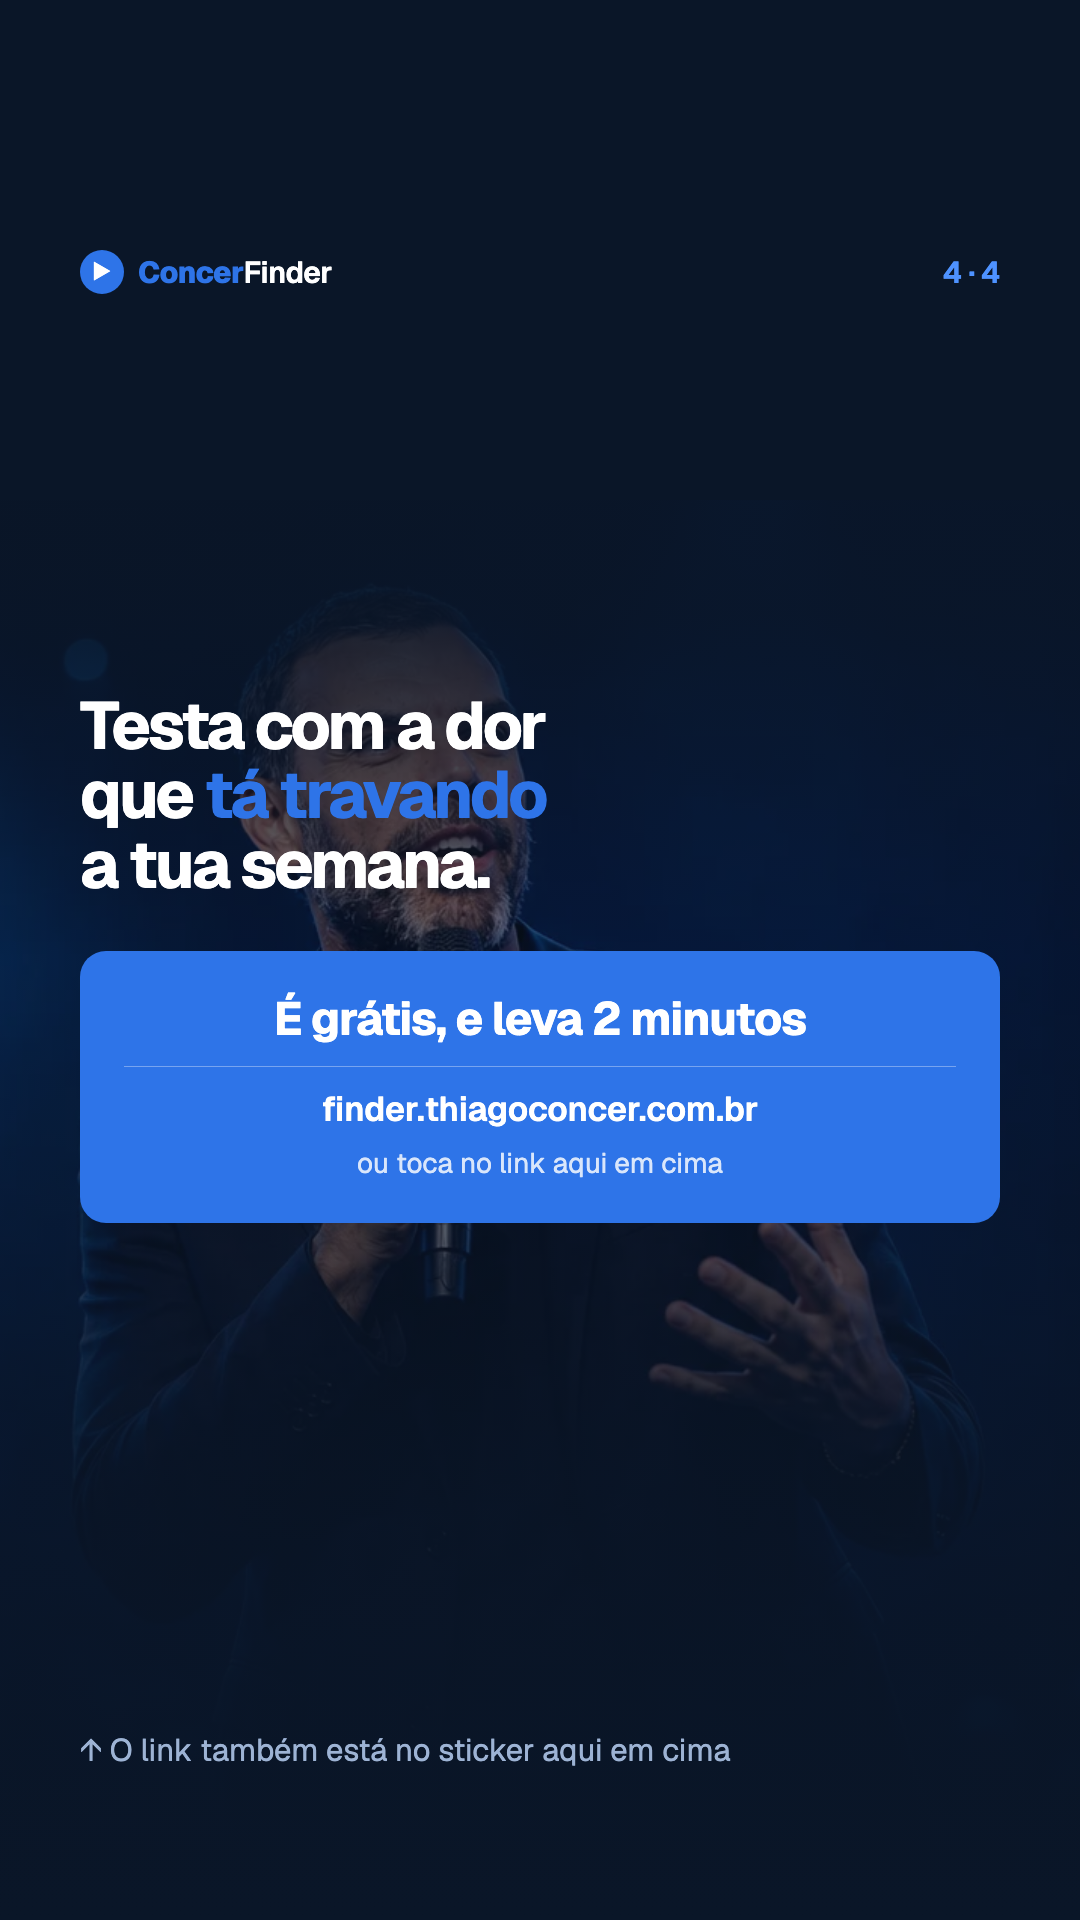
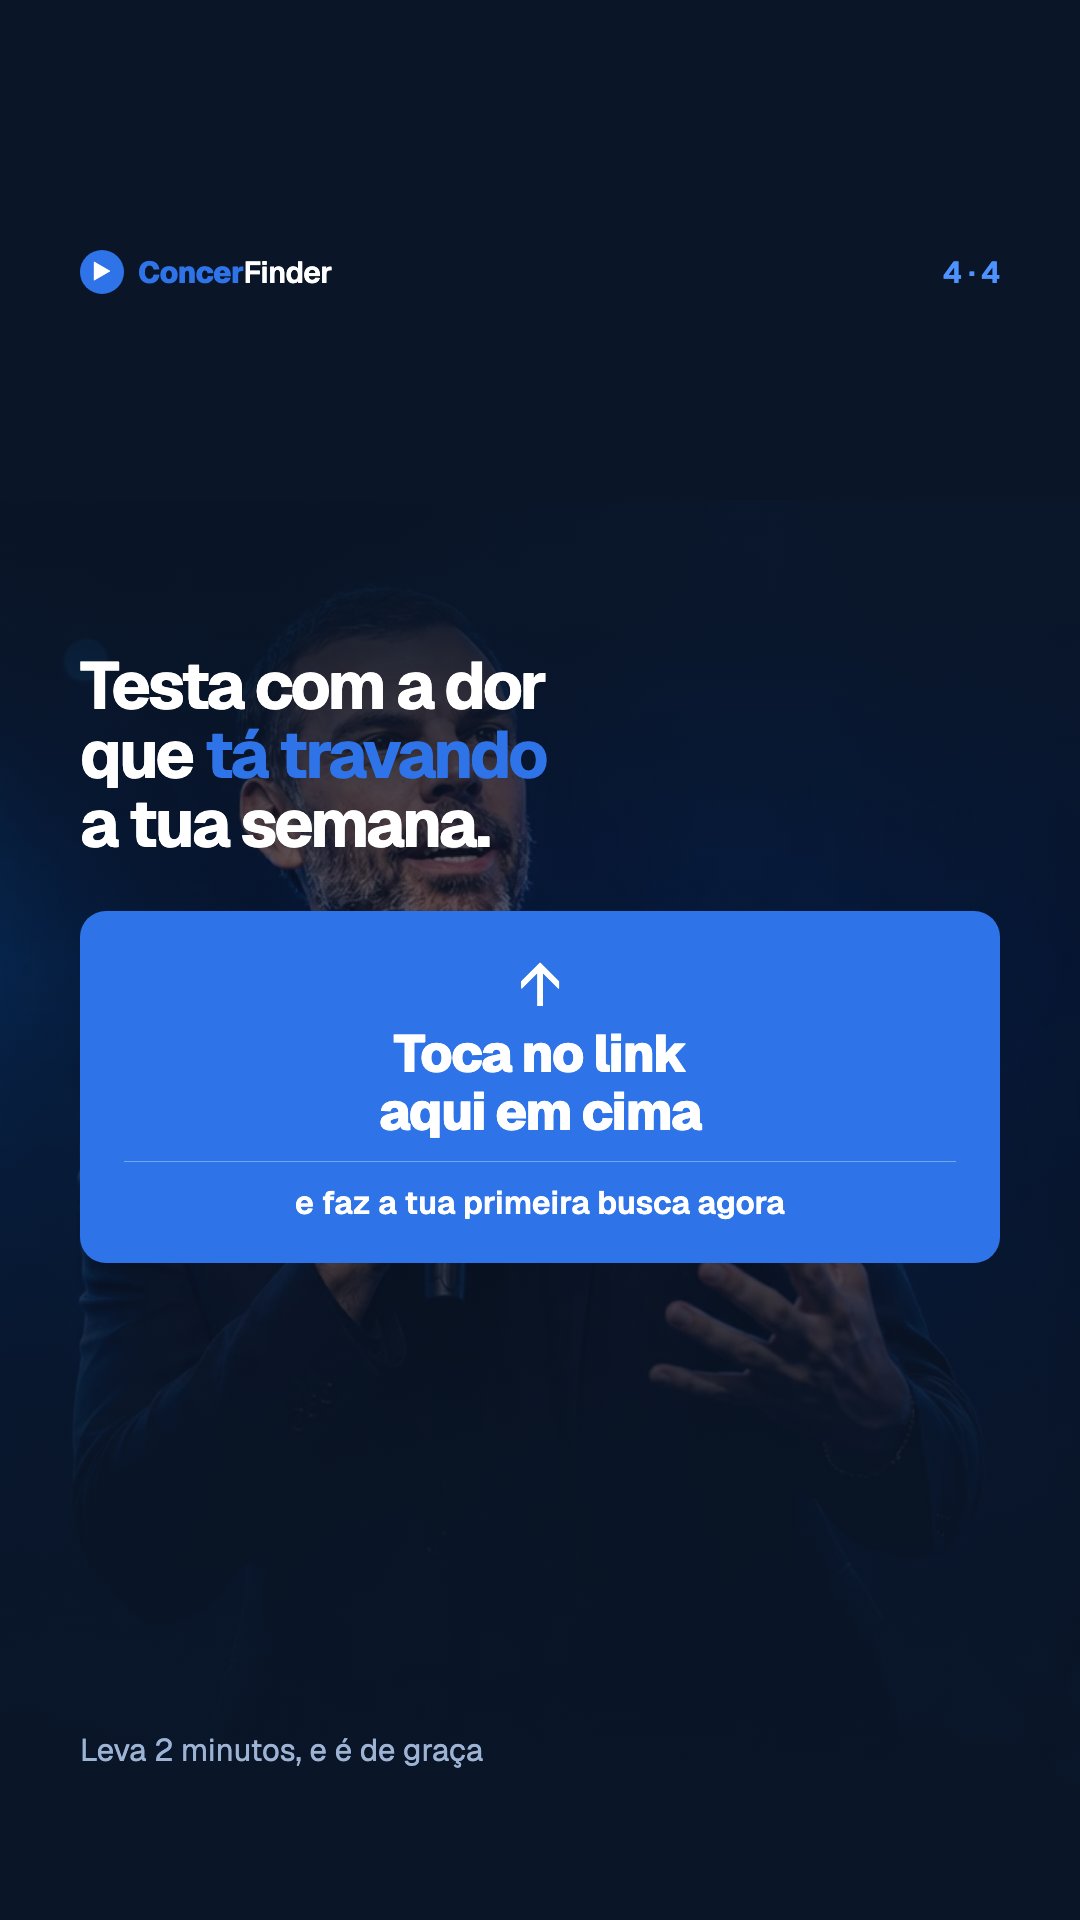
Fecho do carrossel C aponta pro sticker, sem URL escrita
O link vai pelo sticker nativo do Instagram, então URL dentro da arte não é
clicável e ainda concorre com ele. O bloco azul do frame 4 vira o destaque que
manda tocar no link, com a seta apontando pra cima.

Changed region(s): [[0.0611, 0.3438, 0.9472, 0.6562], [0.0611, 0.9062, 0.6722, 0.9375]]

diff --git a/docs/divulgacao/stories/carrossel-c-4.html b/docs/divulgacao/stories/carrossel-c-4.html
@@ -42,11 +42,11 @@ h1 em{font-style:normal;color:#2E74E8}
 .numero b{font-size:104px;font-weight:800;letter-spacing:-5px;line-height:1}
 .numero span{font-size:33px;color:#C6D6F0;line-height:1.25;max-width:430px}
 
-.fecho{margin-top:52px;background:#2E74E8;border-radius:26px;padding:42px 44px;text-align:center}
-.fecho .grande{font-size:46px;font-weight:700;letter-spacing:-1px;line-height:1.15}
-.fecho .url{margin-top:20px;font-size:34px;font-weight:600;color:#fff;
-  border-top:1px solid rgba(255,255,255,.35);padding-top:20px;word-break:break-all}
-.fecho .toque{margin-top:14px;font-size:28px;color:rgba(255,255,255,.82)}
+.fecho{margin-top:52px;background:#2E74E8;border-radius:26px;padding:44px 44px 40px;text-align:center}
+.fecho .seta{font-size:60px;line-height:1;margin-bottom:10px}
+.fecho .grande{font-size:52px;font-weight:800;letter-spacing:-1.4px;line-height:1.12}
+.fecho .toque{margin-top:20px;font-size:32px;font-weight:600;color:#fff;
+  border-top:1px solid rgba(255,255,255,.35);padding-top:20px}
 </style></head><body>
 <img class="foto" src="../../../public/thiago-concer-palco.webp" alt=""><div class="fade"></div>
 
@@ -56,10 +56,10 @@ h1 em{font-style:normal;color:#2E74E8}
   <div class="miolo">
   <h1 style="font-size:66px">Testa com a dor<br>que <em>tá travando</em><br>a tua semana.</h1>
   <div class="fecho">
-    <p class="grande">É grátis, e leva 2 minutos</p>
-    <p class="url">finder.thiagoconcer.com.br</p>
-    <p class="toque">ou toca no link aqui em cima</p>
+    <p class="seta">&#8593;</p>
+    <p class="grande">Toca no link<br>aqui em cima</p>
+    <p class="toque">e faz a tua primeira busca agora</p>
   </div></div>
 </div>
-<div class="rodape">&#8593; O link também está no sticker aqui em cima</div>
+<div class="rodape">Leva 2 minutos, e é de graça</div>
 </body></html>

diff --git a/docs/divulgacao/stories/gerar.py b/docs/divulgacao/stories/gerar.py
@@ -135,11 +135,11 @@ ANTES = """
 """
 
 LINK_CSS = """
-.fecho{margin-top:52px;background:#2E74E8;border-radius:26px;padding:42px 44px;text-align:center}
-.fecho .grande{font-size:46px;font-weight:700;letter-spacing:-1px;line-height:1.15}
-.fecho .url{margin-top:20px;font-size:34px;font-weight:600;color:#fff;
-  border-top:1px solid rgba(255,255,255,.35);padding-top:20px;word-break:break-all}
-.fecho .toque{margin-top:14px;font-size:28px;color:rgba(255,255,255,.82)}
+.fecho{margin-top:52px;background:#2E74E8;border-radius:26px;padding:44px 44px 40px;text-align:center}
+.fecho .seta{font-size:60px;line-height:1;margin-bottom:10px}
+.fecho .grande{font-size:52px;font-weight:800;letter-spacing:-1.4px;line-height:1.12}
+.fecho .toque{margin-top:20px;font-size:32px;font-weight:600;color:#fff;
+  border-top:1px solid rgba(255,255,255,.35);padding-top:20px}
 """
 
 CTA = "<b>Grátis.</b> Toca no link aqui em cima &#8593;"
@@ -219,12 +219,12 @@ CARROSSEIS = {
   <div class="res"><div class="play">&#9654;</div>
     <div><h3>Follow-up: como voltar sem parecer insistente</h3><p>abre no minuto 6:41</p></div></div>"""),
         dict(tema=DARK, css=FOTO_CSS + LINK_CSS, luz=False, passo="4 &#183; 4",
-             rodape="&#8593; O link também está no sticker aqui em cima", foto=True, indice=4, corpo="""
+             rodape="Leva 2 minutos, e é de graça", foto=True, indice=4, corpo="""
   <h1 style="font-size:66px">Testa com a dor<br>que <em>tá travando</em><br>a tua semana.</h1>
   <div class="fecho">
-    <p class="grande">É grátis, e leva 2 minutos</p>
-    <p class="url">finder.thiagoconcer.com.br</p>
-    <p class="toque">ou toca no link aqui em cima</p>
+    <p class="seta">&#8593;</p>
+    <p class="grande">Toca no link<br>aqui em cima</p>
+    <p class="toque">e faz a tua primeira busca agora</p>
   </div>"""),
     ],
 }

diff --git a/docs/divulgacao/stories/README.md b/docs/divulgacao/stories/README.md
@@ -13,7 +13,7 @@ URL dentro da imagem não é clicável e ainda concorre com o sticker.
 |---|---|---|
 | `carrossel-a-1/2/3` | **A ferramenta explicada** | Diz o que é ("o índice do meu canal"), mostra o que volta (vídeo e minuto) e fecha no plano da semana |
 | `carrossel-b-1/2/3` | **Identificação** | Abre com quatro dores em que a pessoa se reconhece, depois explica o que é e fecha no "agora dá pra perguntar" |
-| `carrossel-c-1/2` + `-3.mp4` + `-4` | **Antes e agora** | Contrasta como se garimpava o canal com como se pergunta hoje, prova em vídeo com uma busca real e fecha no convite com o link |
+| `carrossel-c-1/2` + `-3.mp4` + `-4` | **Antes e agora** | Contrasta como se garimpava o canal com como se pergunta hoje, prova em vídeo com uma busca real e fecha mandando tocar no sticker de link |
 
 **Por que as três abrem dizendo o que é.** É lançamento: quem vê o story não sabe
 o que é ConcerFinder, e peça de lançamento que só provoca gasta o primeiro frame
